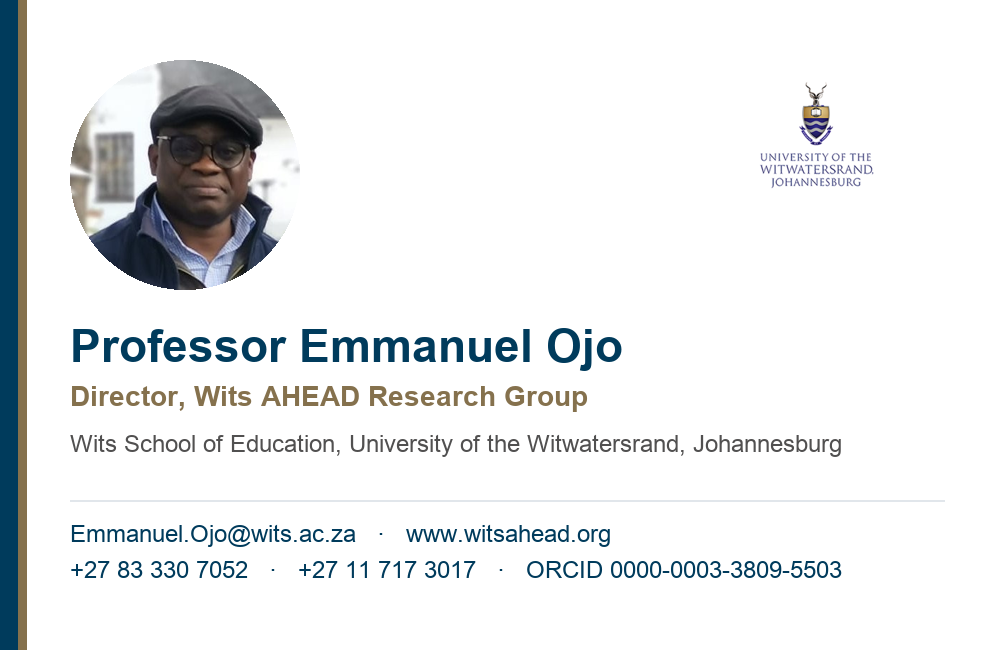
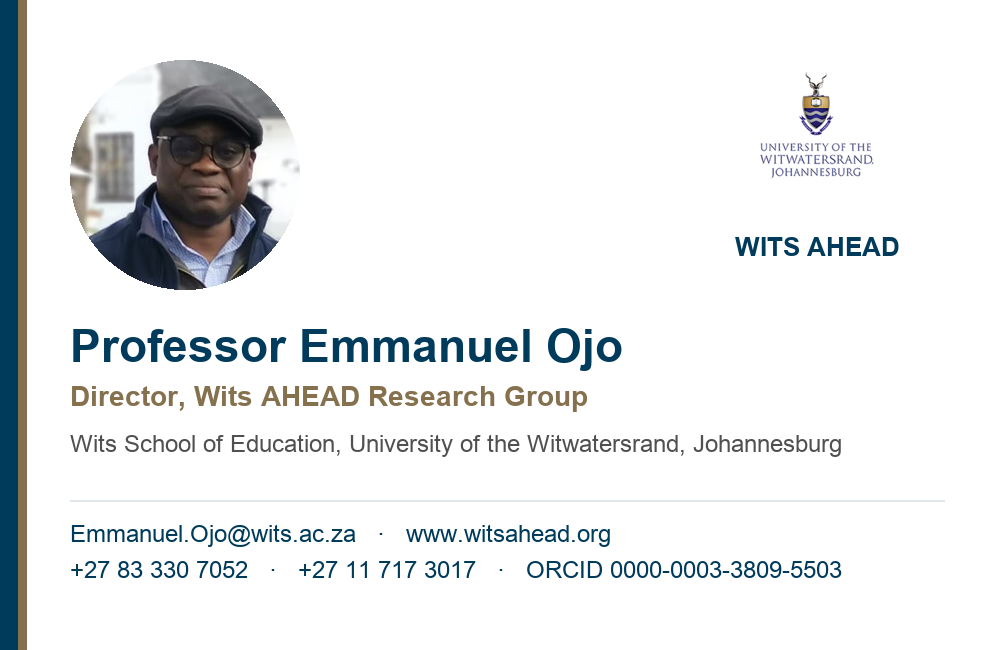
Site update 2026-09-15 00:51

Changed region(s): [[0.741, 0.1231, 0.8645, 0.3077], [0.7102, 0.3385, 0.8954, 0.4]]

diff --git a/card/index.html b/card/index.html
@@ -24,7 +24,8 @@ body{font-family:var(--font);color:var(--text);background:radial-gradient(1200px
 .card{background:#fff;border-radius:18px;overflow:hidden;box-shadow:0 30px 80px rgba(0,0,0,.45)}
 .head{display:grid;grid-template-columns:1fr 1fr;height:170px}
 .head .ph{background:url(director.jpg) center/cover no-repeat}
-.head .lg{display:flex;align-items:center;justify-content:center;padding:18px;border-left:1px solid var(--line)}.head .lg img{max-width:100%;max-height:130px}
+.head .lg{display:flex;flex-direction:column;align-items:center;justify-content:center;gap:8px;padding:14px;border-left:1px solid var(--line)}.head .lg img{max-width:100%;max-height:96px;width:auto}
+.ahead{display:flex;align-items:center;gap:6px}.ahead svg{width:30px;height:30px}.ahead span{font-size:13px;letter-spacing:1.6px;color:var(--navy);font-weight:700}.ahead span b{color:#85714D;font-weight:700;margin-right:3px}
 .id{padding:20px 22px 6px;border-top:5px solid var(--gold)}
 .id h1{margin:0;font-size:24px;line-height:1.15;color:var(--navy);letter-spacing:-.2px}
 .id .r1{margin:6px 0 0;font-weight:700;color:var(--gold);font-size:14.5px}.id .r1 .fr{display:block;font-weight:600;font-size:13px;color:#A08A5C}.id .r2{margin:3px 0 0;color:var(--muted);font-size:13px;line-height:1.45}
@@ -50,7 +51,7 @@ body{font-family:var(--font);color:var(--text);background:radial-gradient(1200px
 <div class="wrap">
   <div class="top"><a class="brand" href="/">Wits AHEAD Research Group</a><div class="lang" role="group" aria-label="Language"><button type="button" data-l="en" class="on">EN</button><button type="button" data-l="fr">FR</button></div></div>
   <div class="card">
-    <div class="head"><div class="ph" role="img" aria-label="Professor Emmanuel Ojo"></div><div class="lg"><img src="wits-crest.png" alt="University of the Witwatersrand, Johannesburg" width="260" height="173"></div></div>
+    <div class="head"><div class="ph" role="img" aria-label="Professor Emmanuel Ojo"></div><div class="lg"><img src="wits-crest.png" alt="University of the Witwatersrand, Johannesburg" width="260" height="173"><div class="ahead" aria-label="Wits AHEAD"><svg viewBox="0 0 160 160" aria-hidden="true"><rect x="32" y="94" width="26" height="50" rx="5" fill="#7FA6C0"/><rect x="67" y="66" width="26" height="78" rx="5" fill="#1E5A82"/><rect x="102" y="36" width="26" height="108" rx="5" fill="#003B5C"/><path d="M30 122 L64 94 L100 66 L128 40" fill="none" stroke="#85714D" stroke-width="8" stroke-linecap="round" stroke-linejoin="round"/><path d="M0 0 L-20 -11 L-14.4 0 L-20 11 Z" fill="#85714D" transform="translate(140 29) rotate(-43)"/></svg><span><b>WITS</b>AHEAD</span></div></div></div>
     <div class="id an">
       <h1>Professor Emmanuel Ojo</h1>
       <p class="r1">Director, Wits AHEAD Research Group</p>
